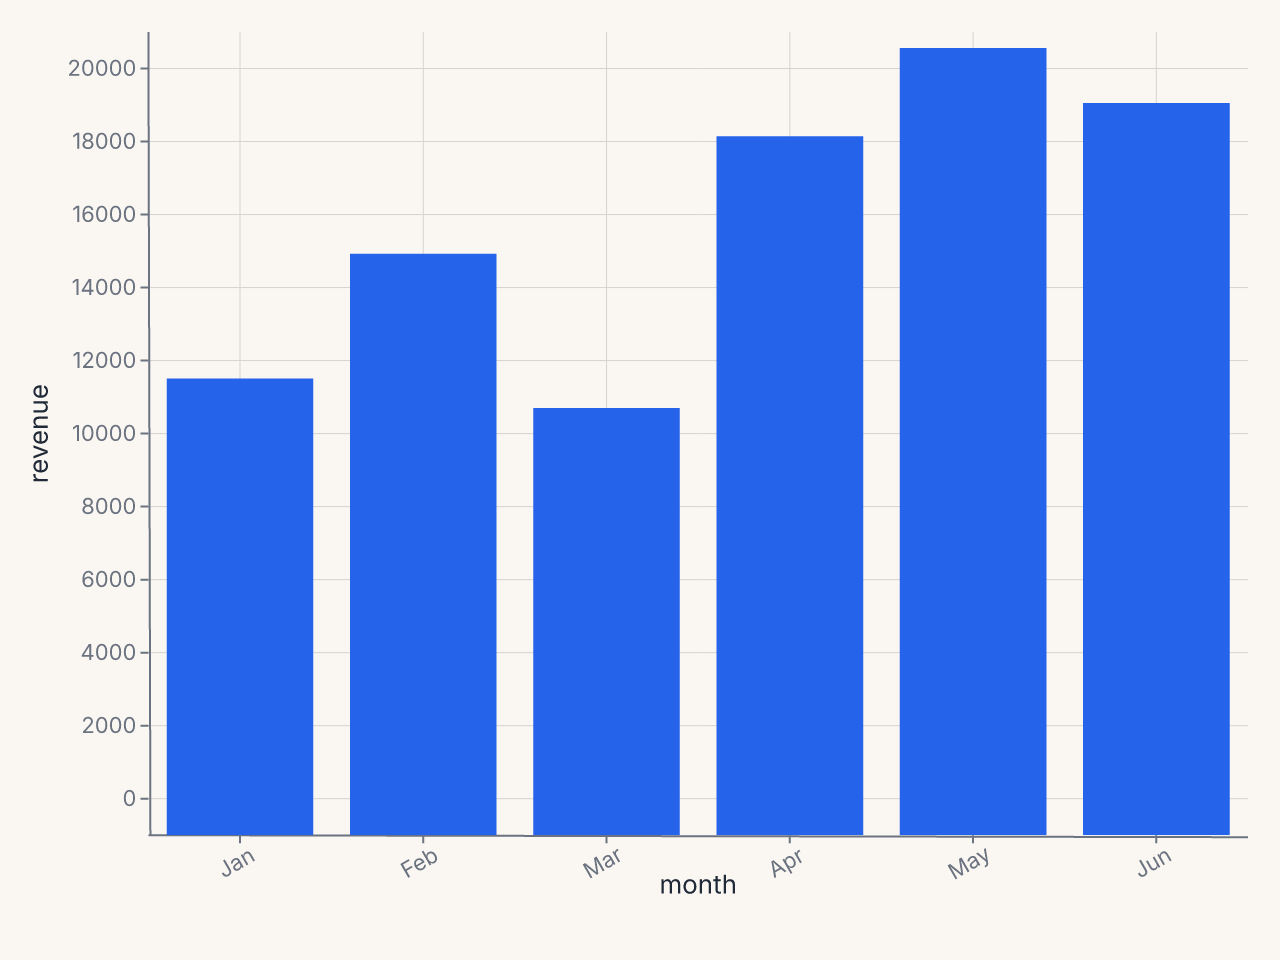
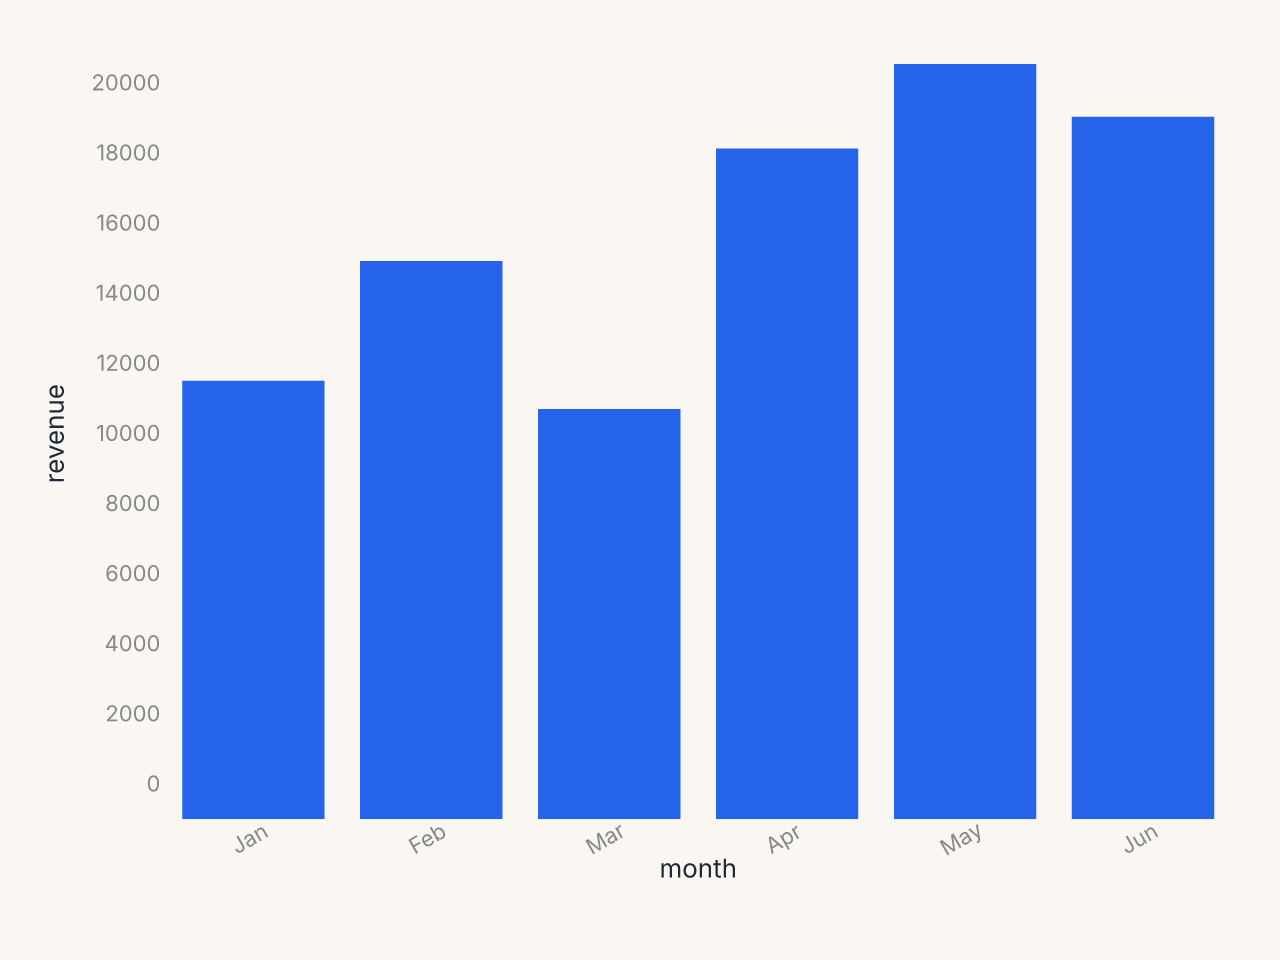
fix: align docs code examples with PNG generation scripts
- Cascade example: add .theme(fm.themes.minimal) to script to match docs
- Inset marginal histogram: update docs binning to (x*2).round(0)/2
  matching the script's half-integer bins

diff --git a/scripts/gen_concept_pngs.py b/scripts/gen_concept_pngs.py
@@ -34,6 +34,7 @@ def gen_customizing_cascade():
             y=fm.Y("revenue:Q", axis=fm.Axis(label_format="$,.0f")),
         )
         .configure_axis(label_angle=-30)
+        .theme(fm.themes.minimal)
     )
     save_png(chart, f"{BASE}/customizing_cascade.png")
 

diff --git a/docs/site/guide/concepts/inset-panels.md b/docs/site/guide/concepts/inset-panels.md
@@ -238,7 +238,7 @@ chart = (
 ```python
 # Pre-compute histogram bins for the inset
 hist_df = (
-    df.with_columns(pl.col("x").round(0).alias("x_bin"))
+    df.with_columns((pl.col("x") * 2).round(0).truediv(2).alias("x_bin"))
     .group_by("x_bin")
     .agg(pl.len().alias("count"))
     .sort("x_bin")
